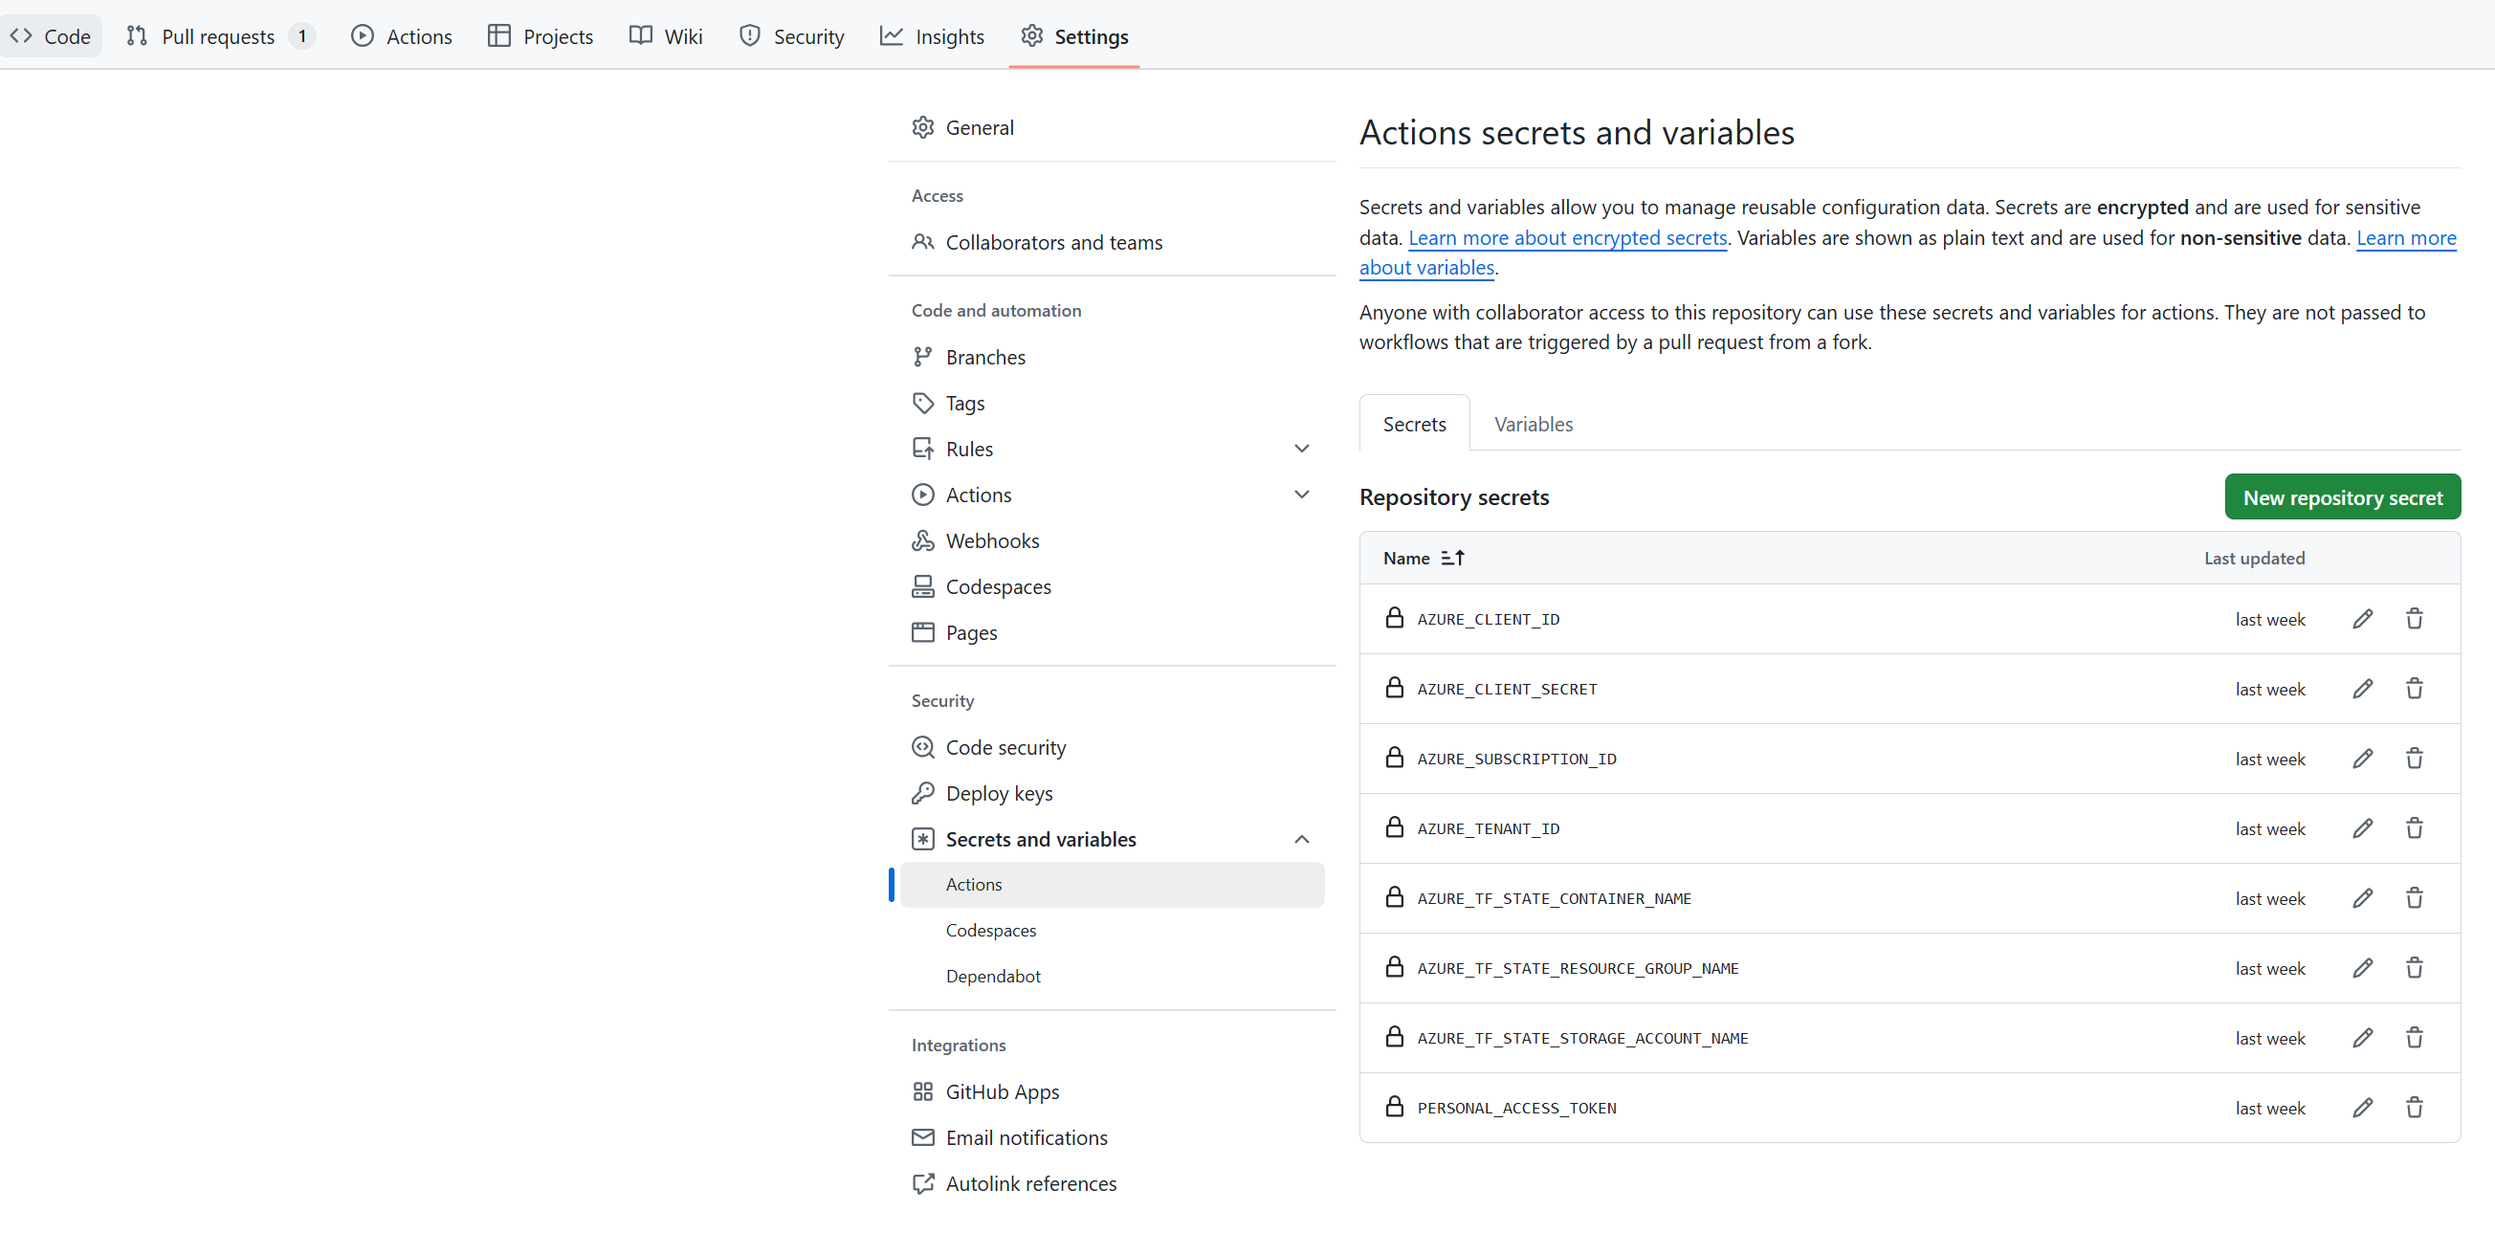
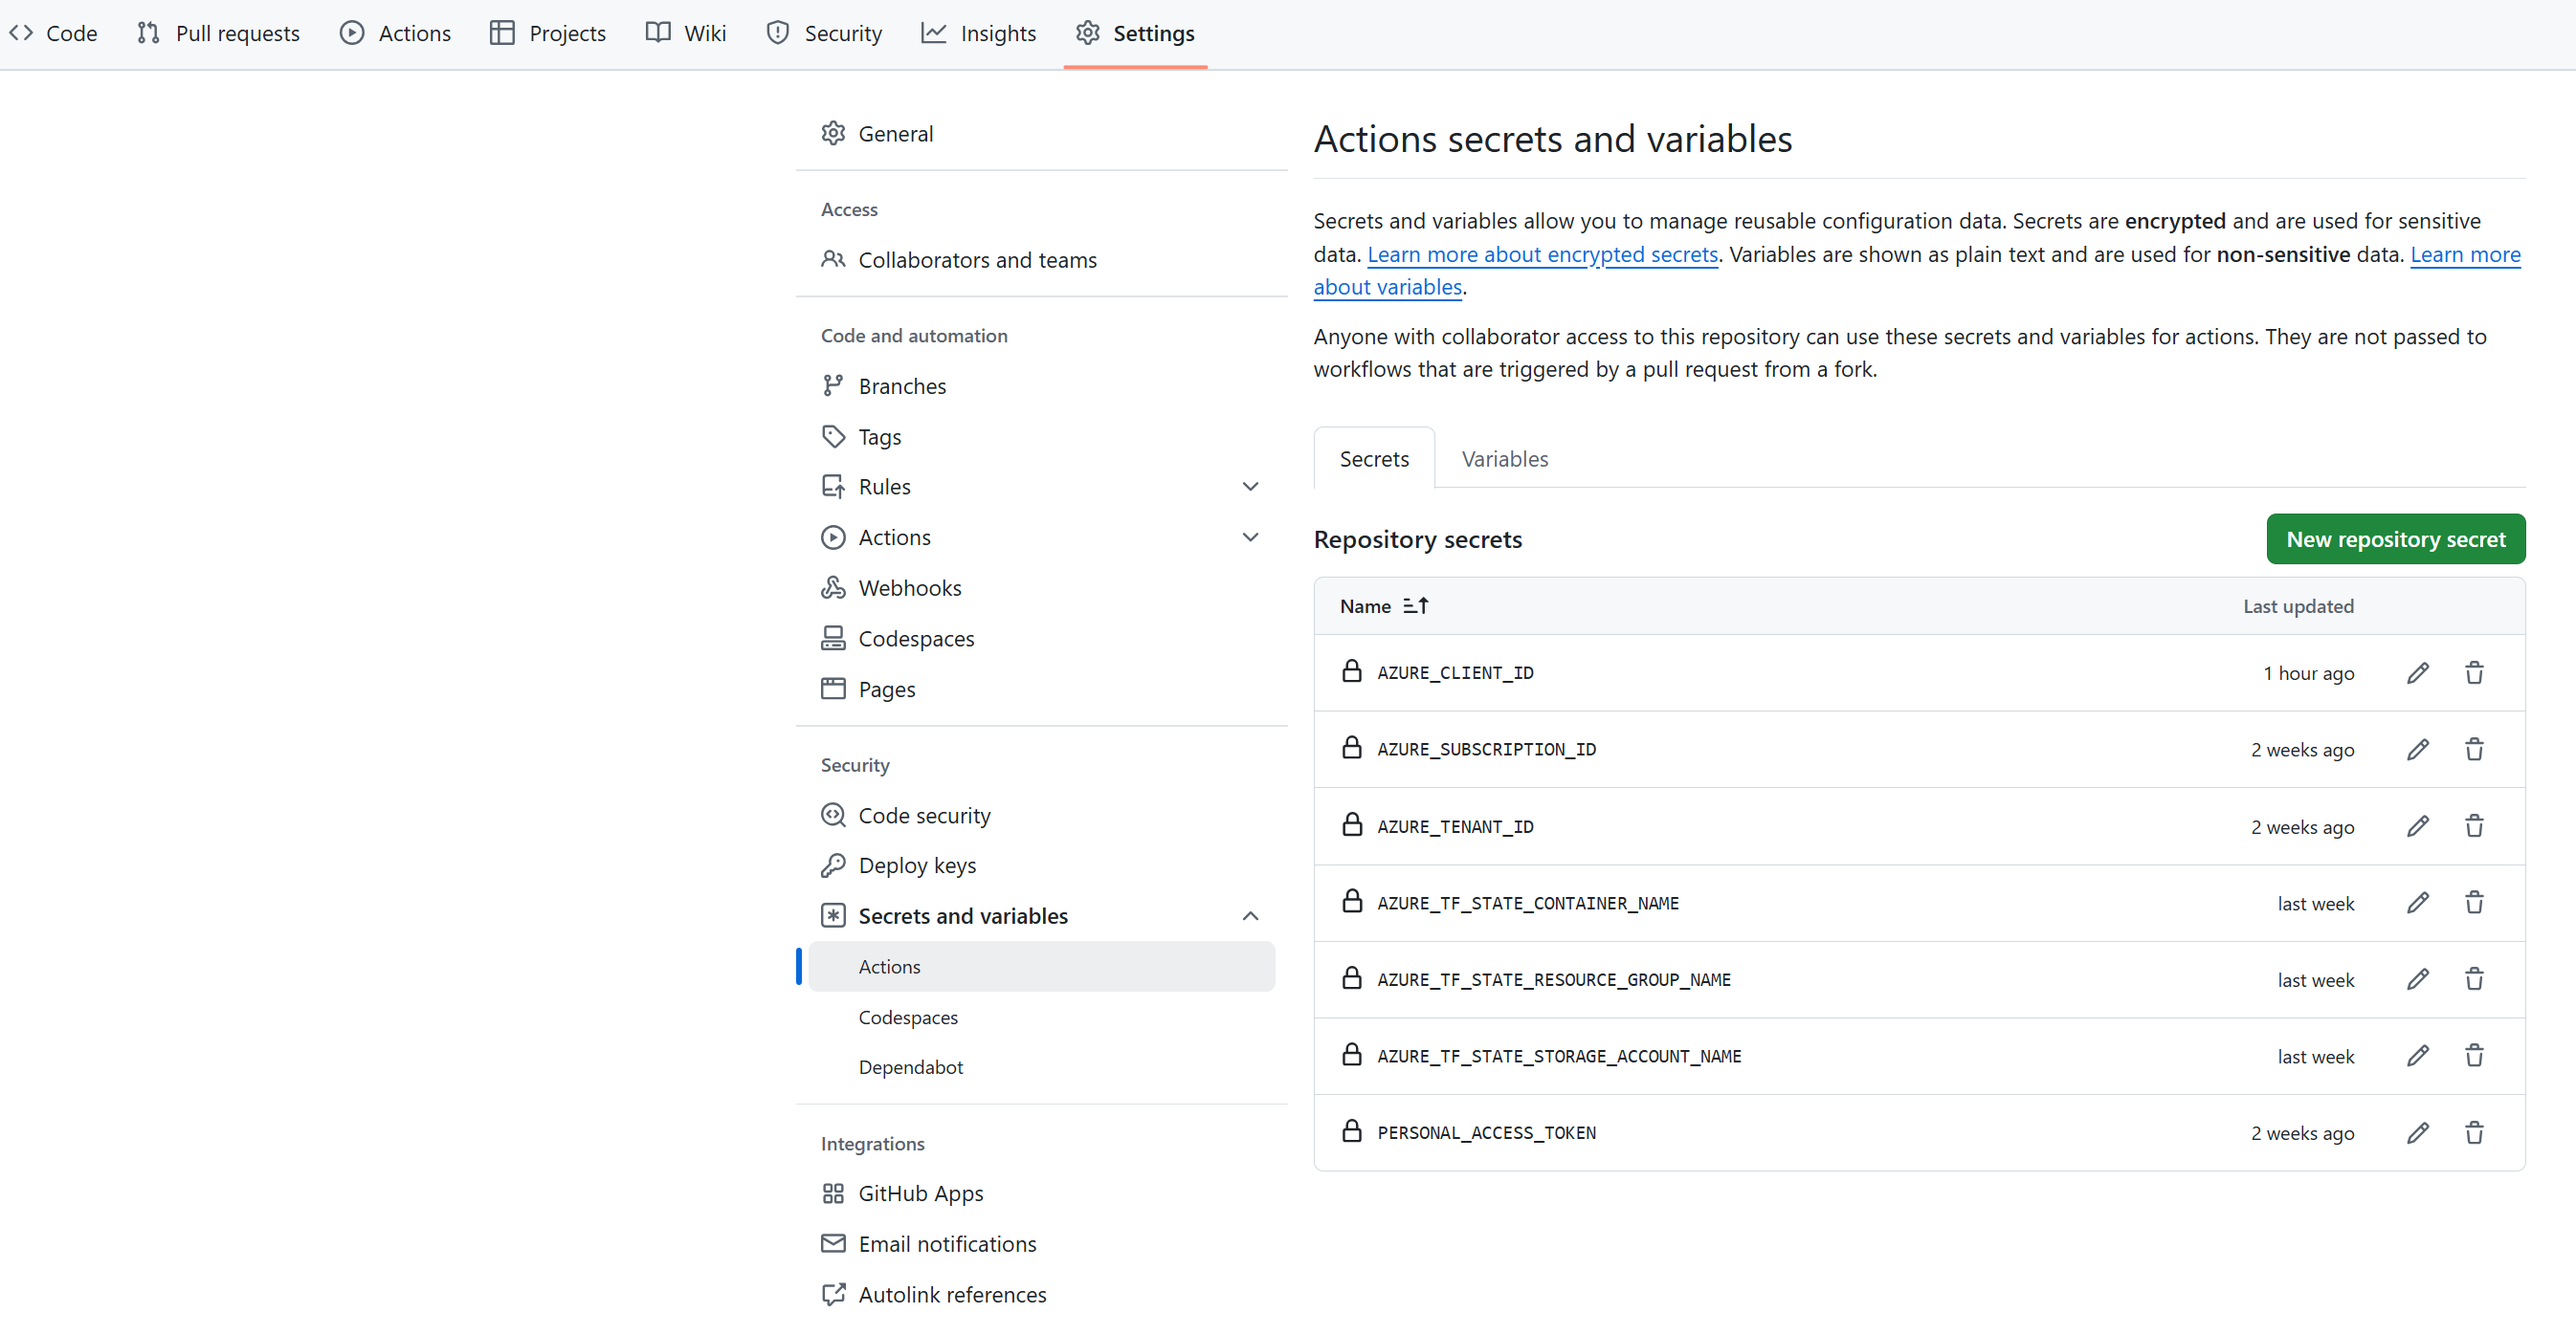
updates readme, adds script to setup federated identity

diff --git a/deployment/terraform/readme_deploy_gha.md b/deployment/terraform/readme_deploy_gha.md
@@ -37,20 +37,18 @@ Before deploying, ensure you have configured the following:
 ### Azure Setup
 
 1. **Create a Service Principal:**
-   Run the following command and save the output values (`appId`, `password`, `tenant`):
+   Run the following command to setup [federated identity](https://docs.github.com/en/actions/security-for-github-actions/security-hardening-your-deployments/configuring-openid-connect-in-azure) and save the output values (`AZURE_CLIENT_ID`, `AZURE_TENANT_ID`, `AZURE_SUBSCRIPTION_ID`):
+   
    ```bash
-   az ad sp create-for-rbac --name <NAME_OF_THE_SP> --role owner --scopes /subscriptions/<SUBSCRIPTION_ID>
+   .\Initialize-Prerequisites.ps1 -Prefix "<YOUR_PREFIX_FOR_THE_APP_REGISTRATION>"
    ```
-   > **Important Note:**
-   > This command will also grant the "Owner" role to this Service Principal at the subscription level.
-
    In case you want to deploy MMAI with authentication enabled, you will also need to grant this Service Principal the [Application Administrator](https://learn.microsoft.com/en-us/entra/identity/role-based-access-control/permissions-reference?utm_source=chatgpt.com#application-administrator) or [Cloud Application Administrator](https://learn.microsoft.com/en-us/entra/identity/role-based-access-control/permissions-reference?utm_source=chatgpt.com#cloud-application-administrator) [privileged](https://learn.microsoft.com/en-us/entra/identity/role-based-access-control/privileged-roles-permissions?tabs=admin-center#which-roles-and-permissions-are-privileged) role in Microsoft Entra ID.
 
 2. **Create Storage Account & Blob Container:**
 
    - Create an Azure Storage Account.
    - Create a Blob Container to store your Terraform state.
-   - Assign the **Storage Blob Data Contributor** role to the Service Principal.
+   - Assign the **Storage Blob Data Contributor** role to the identity created in step 1.
 
 ### GitHub Setup
 
@@ -63,7 +61,6 @@ Before deploying, ensure you have configured the following:
    | Secret Name                             | Description                                               |
    | --------------------------------------- | --------------------------------------------------------- |
    | `AZURE_CLIENT_ID`                       | Client Id of the Service Principal                        |
-   | `AZURE_CLIENT_SECRET`                   | Client Secret of the Service Principal                    |
    | `AZURE_SUBSCRIPTION_ID`                 | Azure Subscription to deploy to                           |
    | `AZURE_TENANT_ID`                       | Azure Tenant for deployment                               |
    | `AZURE_TF_STATE_CONTAINER_NAME`         | Blob container name for Terraform state                   |
